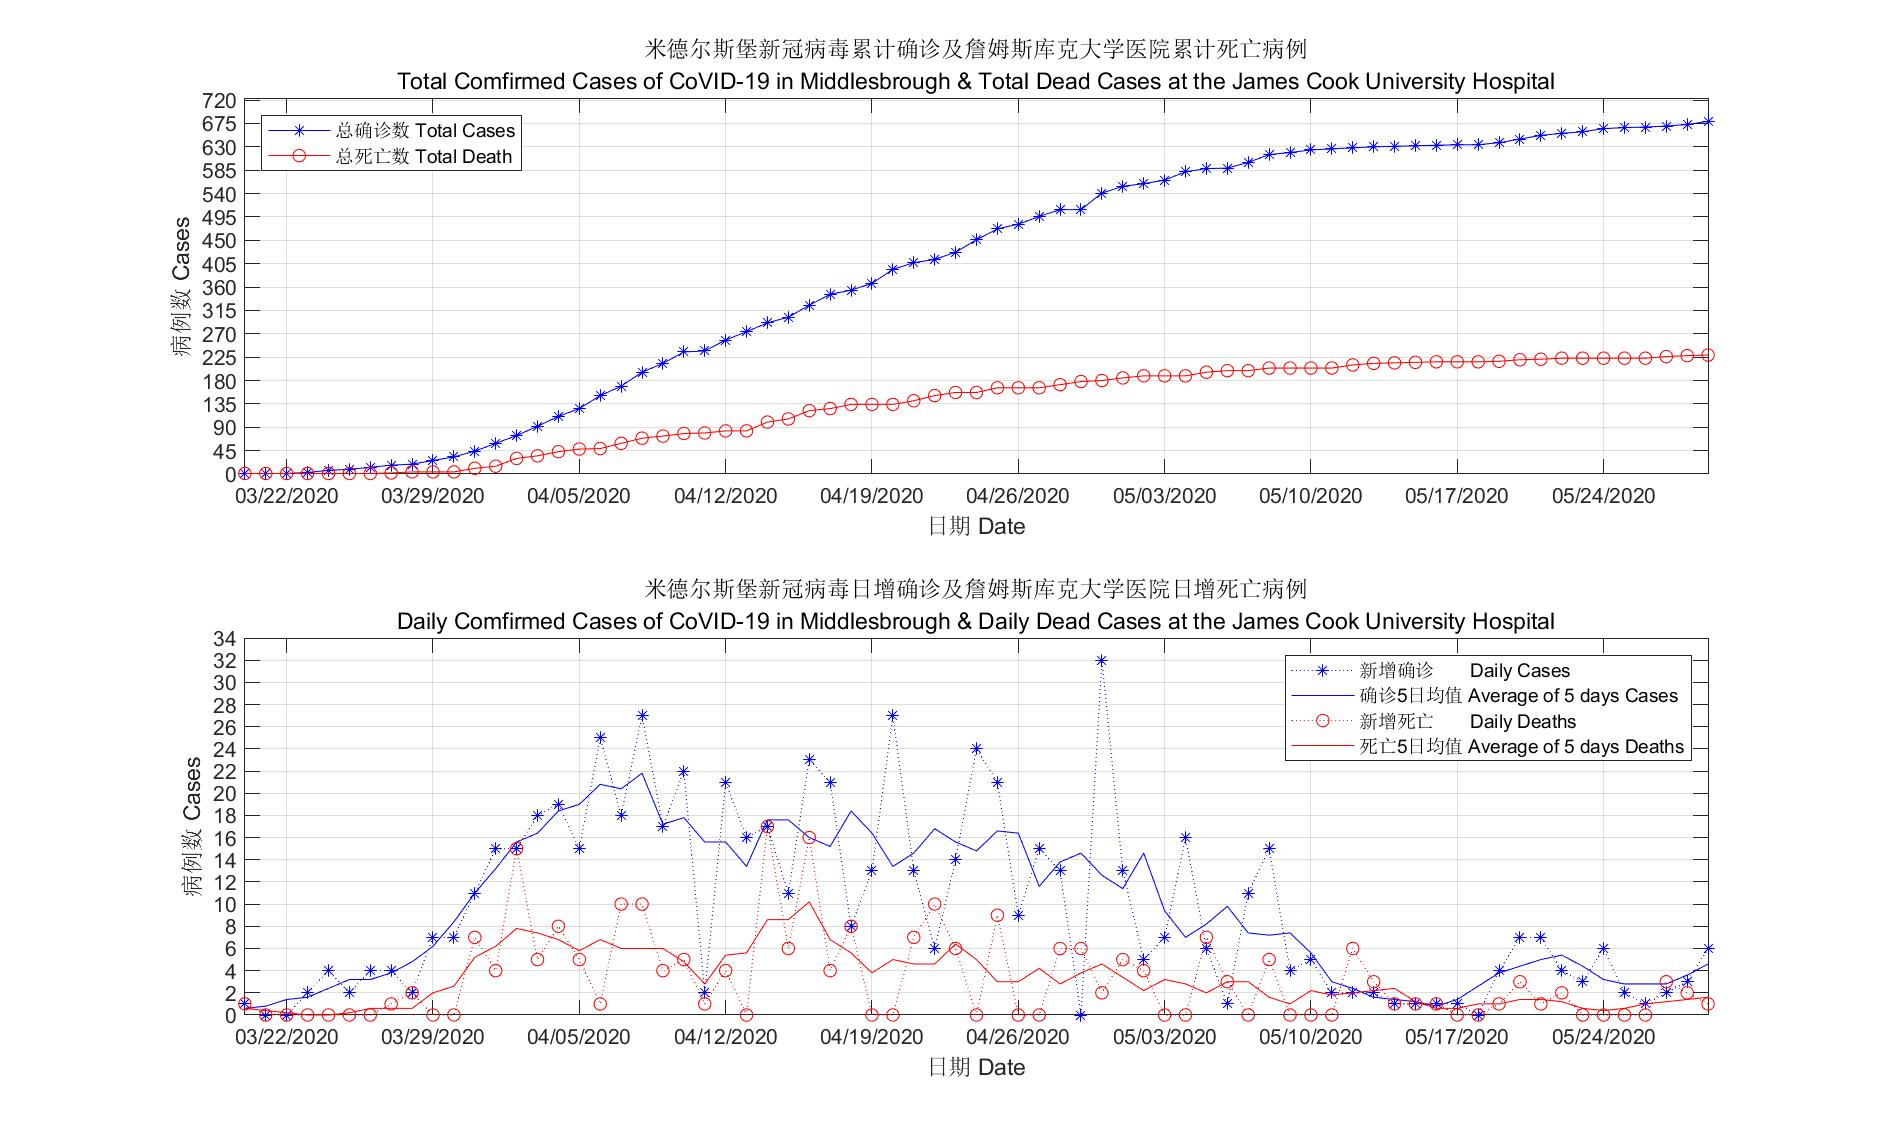
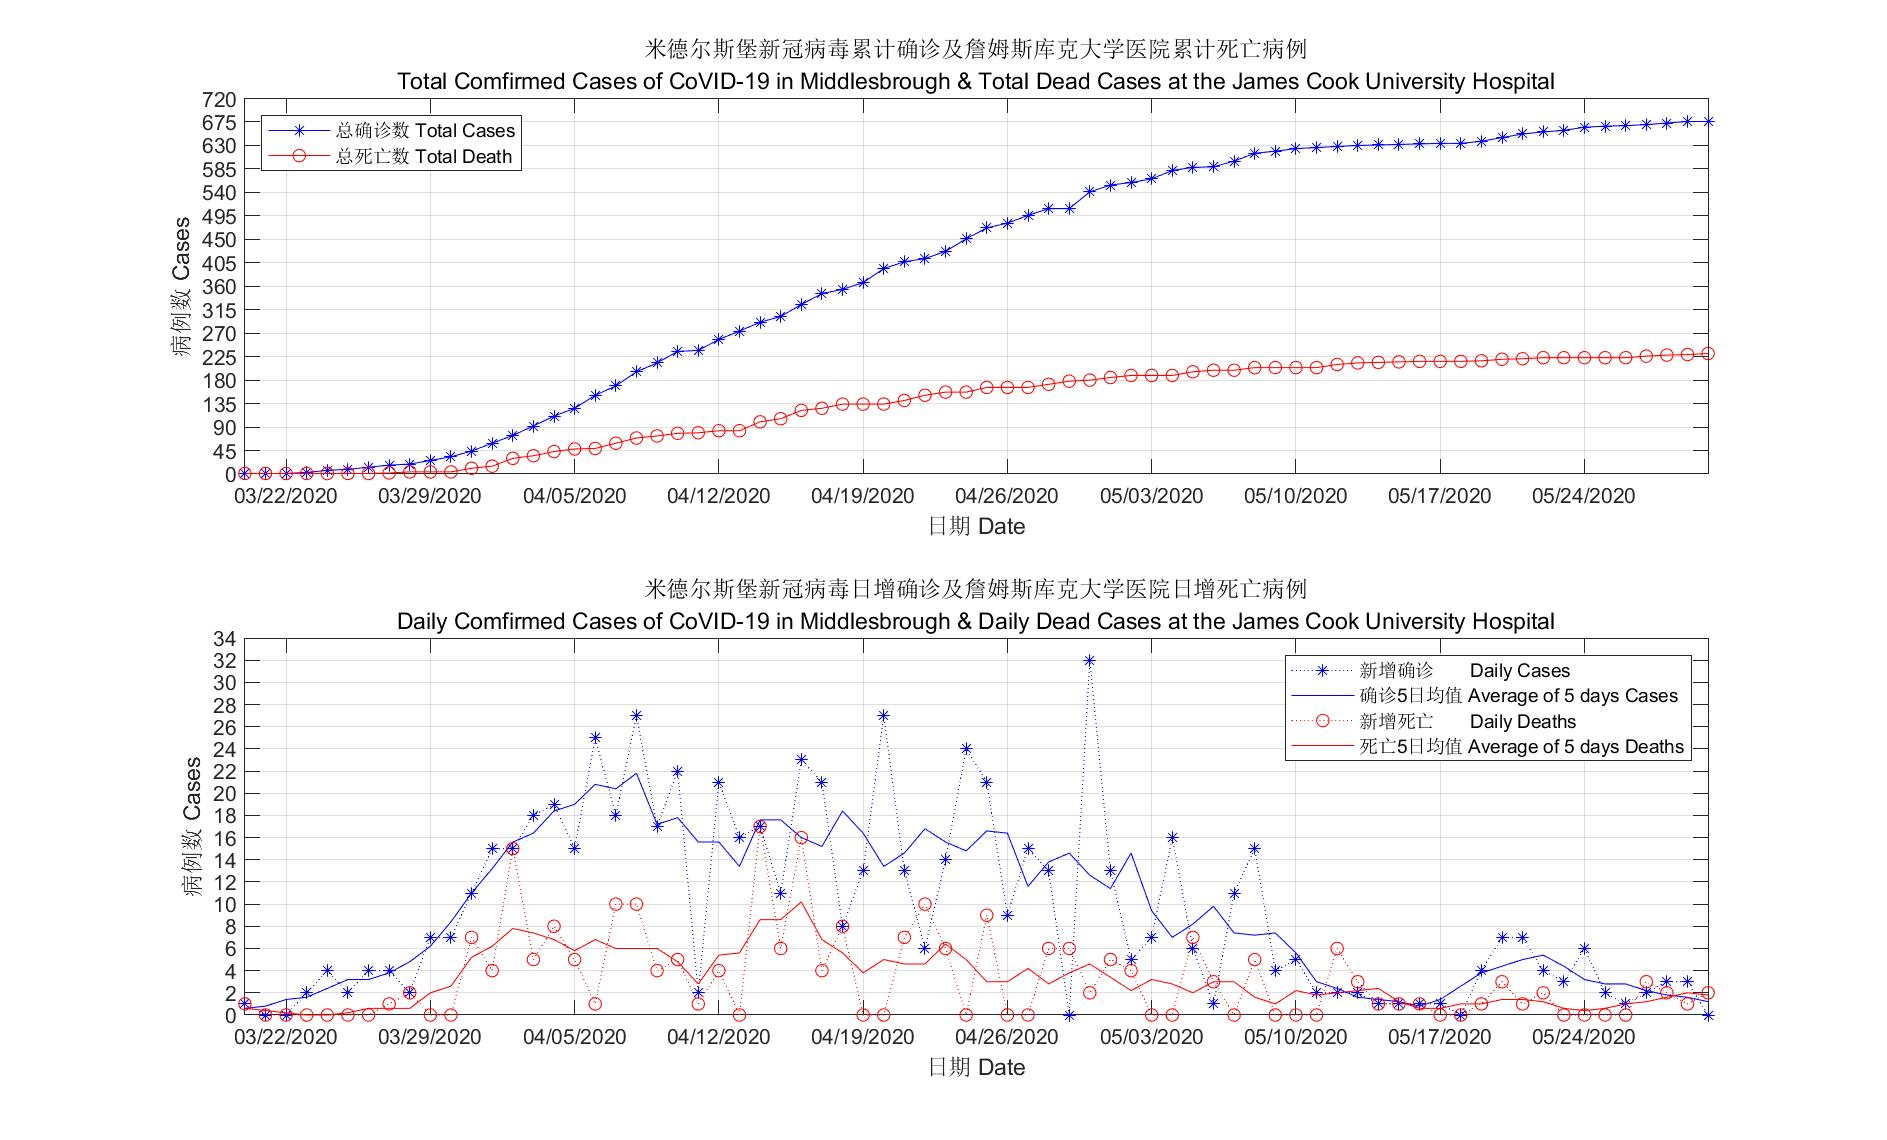
Update

diff --git a/covid19_TS1.m b/covid19_TS1.m
@@ -1,19 +1,19 @@
 %Figure of CoVid-19 Case in Middlesbrough
 %Coded by dxb 2020.4.1
 %Revised on 5-04-2020
-%Updated on 5-06-2020
+%Updated on 5-30-2020
 
 %Data source Need to update by day
 %cases data from the UK government
 cases = [1 1 1 3 7 9 13 17 19 26 33 44 59 74 92 111 126 151 169 196 213 ...
     235 237 258 274 291 302 325 346 354 367 394 407 413 427 451 472 481 ...
     496 509 509 541 554 559 566 582 588 589 600 615 619 624 626 628 630 ...
-    631 632 633 634 634 638 645 652 656 659 665 667 668 670 673 679];
+    631 632 633 634 634 638 645 652 656 659 665 667 668 670 673 676 676];
 %deaths data from NHS
 dcases = [1 1 1 1 1 1 1 2 4 4 4 11 15 30 35 43 48 49 59 69 73 78 79 83 ...
     83 100 106 122 126 134 134 134 141 151 157 157 166 166 166 172 178 ...
     180 185 189 189 189 196 199 199 204 204 204 204 210 213 214 215 216 ...
-    216 216 217 220 221 223 223 223 223 223 226 228 229];
+    216 216 217 220 221 223 223 223 223 223 226 228 229 231];
 
 %Initial
 %Date config

diff --git a/Covid19_TS1.py b/Covid19_TS1.py
@@ -12,12 +12,12 @@ from matplotlib.ticker import MultipleLocator, FormatStrFormatter
 cases = [1, 1, 1, 3, 7, 9, 13, 17, 19, 26, 33, 44, 59, 74, 92, 111, 126, 151, 169, 196, 213,\
     235, 237, 258, 274, 291, 302, 325, 346, 354, 367, 394, 407, 413, 427, 451, 472, 481, 496,\
     509, 509, 541, 554, 559, 566, 582, 588, 589, 600, 615, 619, 624, 626, 628, 630, 631, 632,\
-    633, 634, 634, 638, 645, 652, 656, 659, 665, 667, 668, 670, 673, 679]
+    633, 634, 634, 638, 645, 652, 656, 659, 665, 667, 668, 670, 673, 676, 676]
 #deaths data from NHS
 dcases = [1, 1, 1, 1, 1, 1, 1, 2, 4, 4, 4, 11, 15, 30, 35, 43, 48, 49, 59, 69, 73, 78, 79, 83,\
     83, 100, 106, 122, 126, 134, 134, 134, 141, 151, 157, 157, 166, 166, 166, 172, 178, 180,\
     185, 189, 189, 189, 196, 199, 199, 204, 204, 204, 204, 210, 213, 214, 215, 216, 216, 216,\
-    217, 220, 221, 223, 223, 223, 223, 223, 226, 228, 229]
+    217, 220, 221, 223, 223, 223, 223, 223, 226, 228, 229, 231]
 
 #Initial
 #Date config
